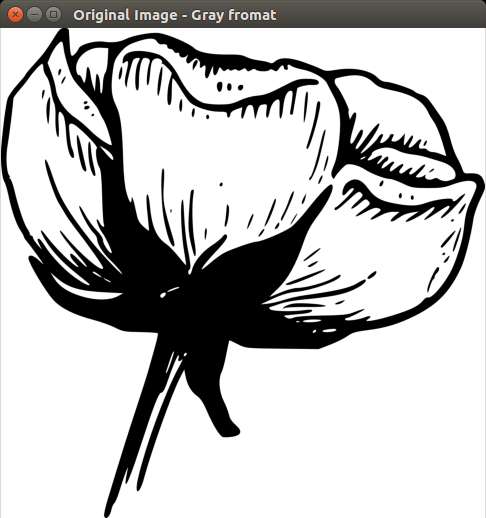
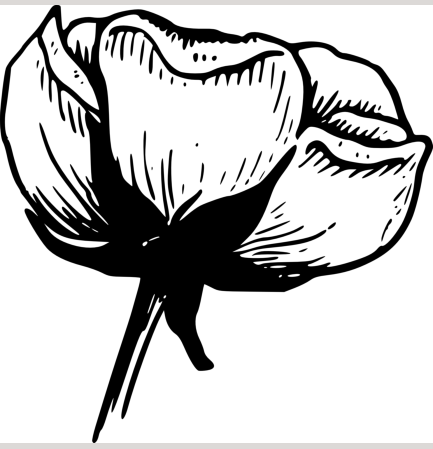
Updated code to polyfill the shapes

diff --git a/RebuildImage.cpp b/RebuildImage.cpp
@@ -1,6 +1,7 @@
 #include <opencv2/highgui/highgui.hpp>
 #include <opencv2/imgproc/imgproc.hpp>
 #include <iostream>
+#include <map>
 
 using namespace cv;
 using namespace std;
@@ -11,6 +12,7 @@ int max_thresh = 255;
 RNG rng(12345);
 
 void customRebuild(Mat&, vector<vector<Point> >&, vector<Vec4i>&);
+void _customRebuild(Mat&, vector<vector<Point> >&, vector<Vec4i>&, int, Scalar);
 
 /** @function main */
 int main( int argc, char** argv )
@@ -36,12 +38,10 @@ int main( int argc, char** argv )
   //Finding contours
   vector<vector<Point> > contours;
   vector<Vec4i> hierarchy;
-  findContours(cannyEdges, contours, hierarchy, CV_RETR_TREE, CV_CHAIN_APPROX_SIMPLE, Point(0,0));
+  findContours(inputGray, contours, hierarchy, CV_RETR_TREE, CV_CHAIN_APPROX_SIMPLE, Point(0,0));
+  cout << "_hierarchy size " <<  hierarchy.size() << " contours size " << contours.size() << endl;
   Mat rebuild = Mat::zeros(cannyEdges.size(), CV_8UC3);
-  // rebuild[:] = (255, 255, 255)
   rebuild = Scalar(255, 255, 255);
-  namedWindow("Rebuild", CV_WINDOW_NORMAL);
-  imshow("Rebuild", rebuild);
 
   customRebuild(rebuild, contours, hierarchy);
 
@@ -51,13 +51,19 @@ int main( int argc, char** argv )
 
 void customRebuild(Mat& img, vector<vector<Point> >& _contours, vector<Vec4i>& _hierarchy)
 {
-  // vector<CvSeq> contours;
   if(!_contours.size() || !_hierarchy.size()) return;
   int count = _hierarchy.size();
   Scalar color = Scalar( 0, 0, 0 );
-
-  for(int i=0; i<count; ++i) {
+  Scalar fillColor1 = Scalar( 255, 255, 255 );
+  Scalar fillColor2 = Scalar( 0, 0, 0 );
+  int i;
+  for(i=0; i<count; ++i) {
     vector<Point> v = _contours[i];
+    int size = _contours[i].size();
+    
+    vector<Point> *currentCon = &_contours[i];
+    const Point **u = (const Point**)(&currentCon[0]);
+    fillPoly(img, u, &size, 1, (i%2==0)?fillColor1:fillColor2, 8);
     int cSize = v.size();
     if(cSize) {
       Point prev = v[0];
@@ -67,6 +73,7 @@ void customRebuild(Mat& img, vector<vector<Point> >& _contours, vector<Vec4i>& _
       }
     }
   }
+  // cout << "Iterated: " << i << endl;
 
   namedWindow( "MyWindow", CV_WINDOW_NORMAL );
   imshow( "MyWindow", img );
